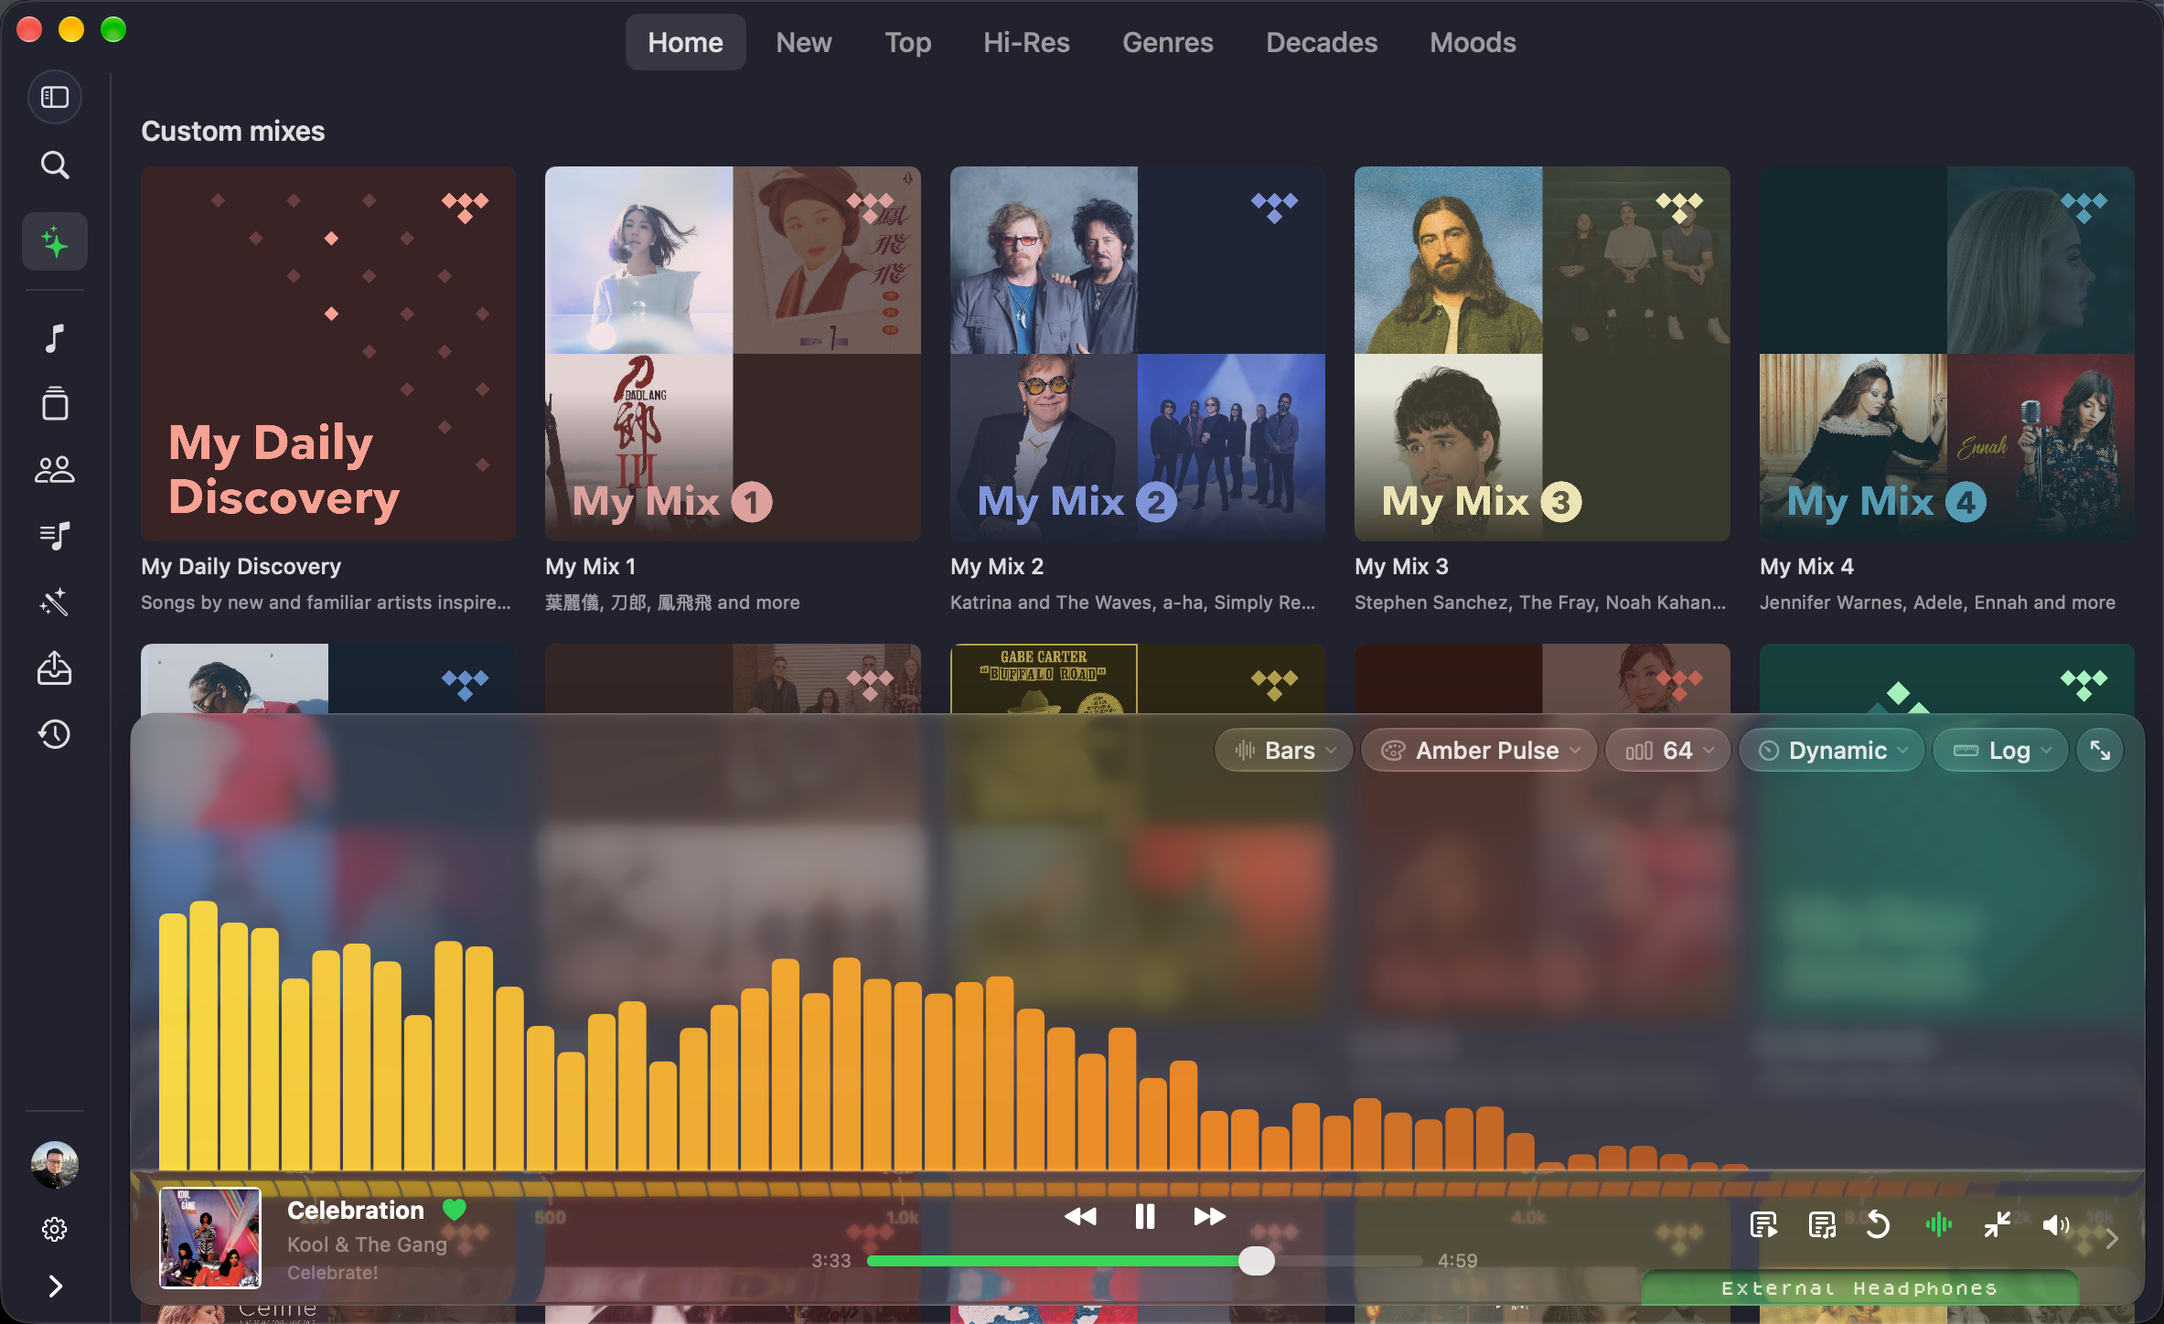
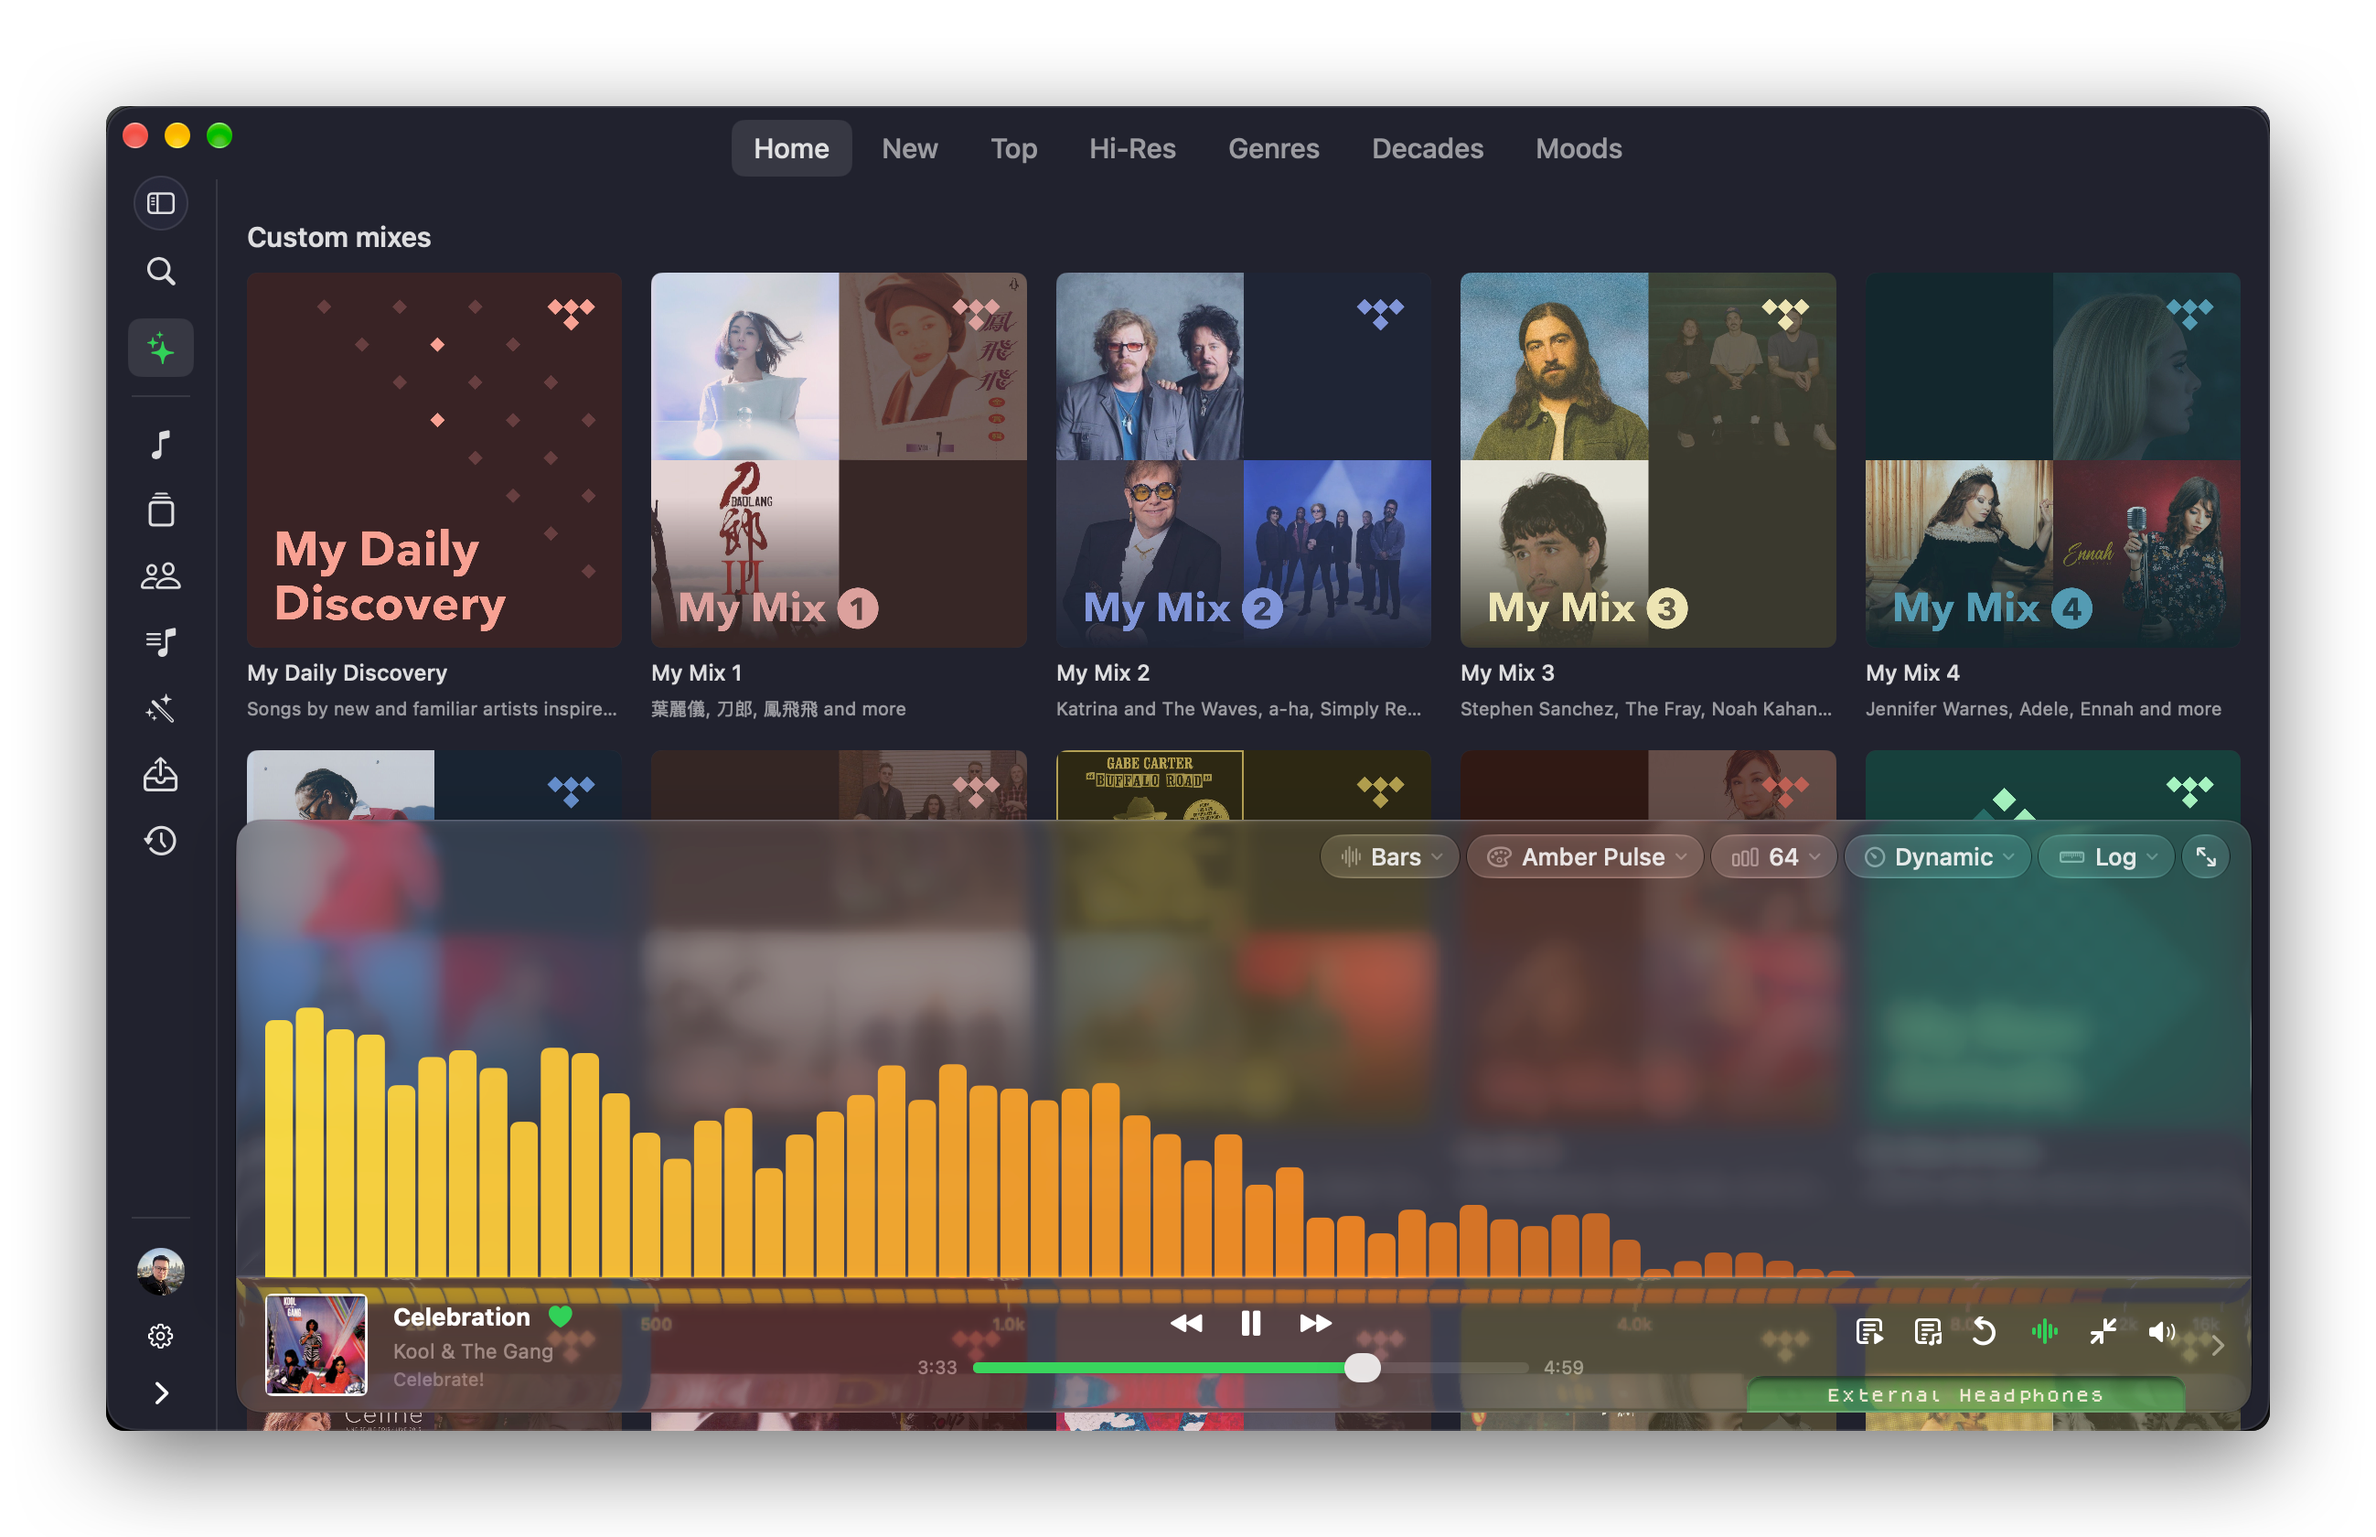
README: macOS screenshot with the same margin and shadow as the others

diff --git a/README.md b/README.md
@@ -45,7 +45,7 @@ title bar matches the rest of KDE or GNOME.
 
 **macOS** — SwiftUI
 
-<img src="screenshots/macos-04-home-visualizer.png" alt="OxiTide on macOS — Home with the spectrum visualizer" width="680" height="416">
+<img src="screenshots/macos-04-home-visualizer.png" alt="OxiTide on macOS — Home with the spectrum visualizer" width="900" height="582">
 
 **Windows** — WinUI 3
 
